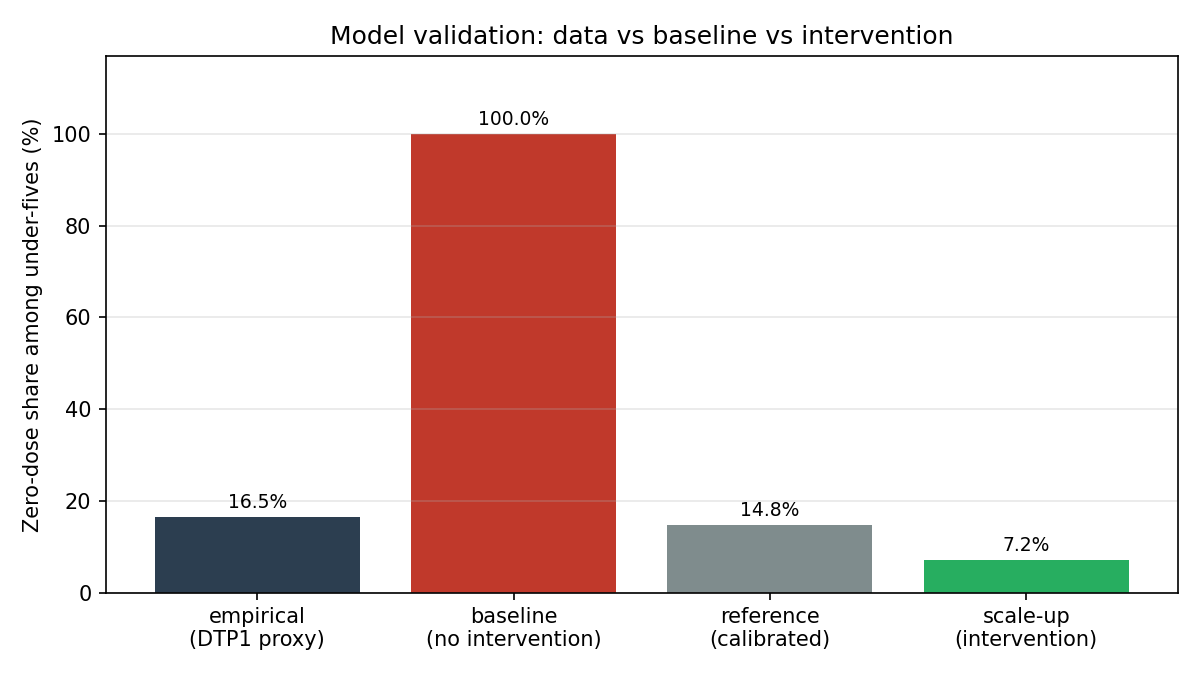
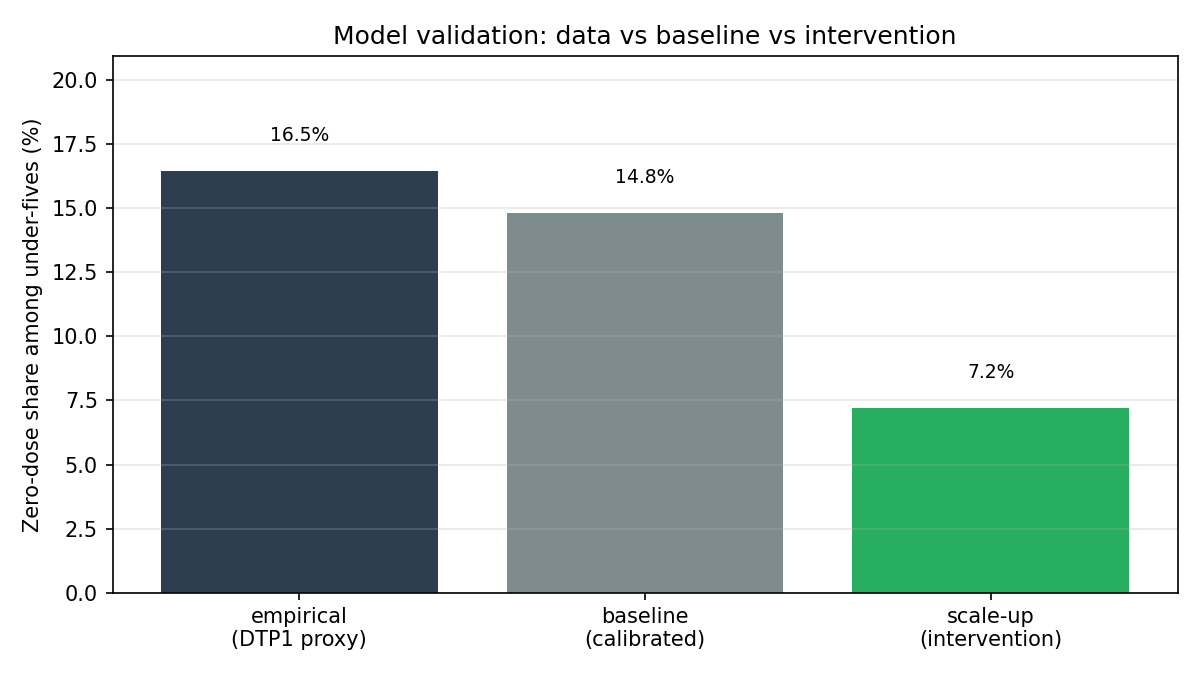
fixing zero-dose share plot

diff --git a/zdsim/plots.py b/zdsim/plots.py
@@ -130,9 +130,9 @@ def save_projection_plots(df_data, rows_base, rows_ref, rows_int, empirical_zd,
             paths.append(p_ctx)
 
     p3 = os.path.join(out_dir, "zerodose_impact.png")
-    labels = ["empirical\n(DTP1 proxy)", "baseline\n(no intervention)", "reference\n(calibrated)", "scale-up\n(intervention)"]
-    values = [empirical_zd * 100, base_zd * 100, ref_zd * 100, int_zd * 100]
-    colors = ["#2c3e50", "#c0392b", "#7f8c8d", "#27ae60"]
+    labels = ["empirical\n(DTP1 proxy)", "baseline\n(calibrated)", "scale-up\n(intervention)"]
+    values = [empirical_zd * 100, ref_zd * 100, int_zd * 100]
+    colors = ["#2c3e50", "#7f8c8d", "#27ae60"]
     fig, ax = plt.subplots(figsize=(8, 4.5))
     bars = ax.bar(labels, values, color=colors)
     for bar, v in zip(bars, values):
